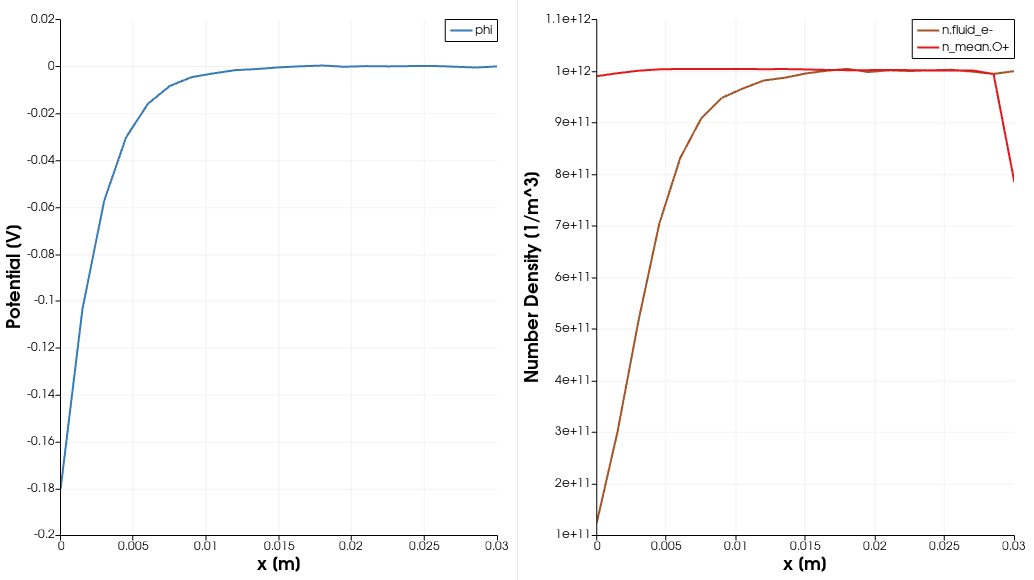
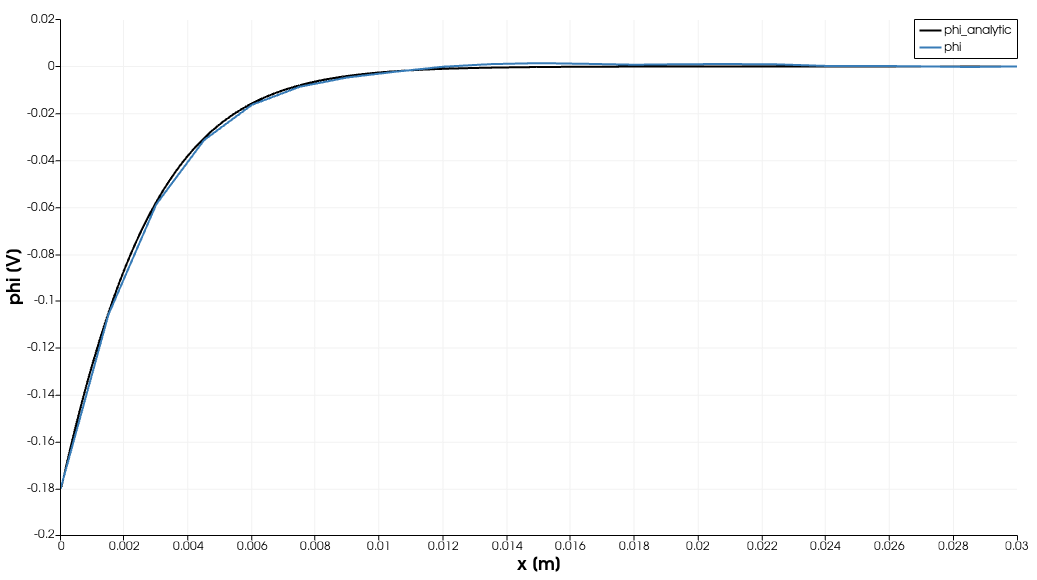
added analytic plasma sheath solution

diff --git a/test/sheath_br.cpp b/test/sheath_br.cpp
@@ -12,6 +12,52 @@ using namespace Eigen;
 using PBC = ParticleBCtype;
 using FBC = FieldBCtype;
 
+void save_analytical_solution()
+{
+	double Te    = 1000;		/* [K] */
+	double v_I   = 11492.19;	/* [m/s] */
+	double m_I   = 16*AMU;		/* [kg] */
+	double n_ei  = 1e12;		/* [1/m^3] */
+	double x_L   = -0.03;		/* [m] */
+	double phi_0 = -0.1811;		/* [V] */
+
+	int N = 1000;
+
+	double y0 = m_I*v_I*v_I/(2*K*Te);
+
+	double lambda_D = sqrt(EPS0*K*Te/(n_ei*QE*QE));
+	double xi_0 = 0.0;
+	double xi_L = x_L/lambda_D;
+	double d_xi = xi_L/(N - 1);
+
+	double chi_0 = -QE*phi_0/(K*Te);
+
+	string fname = "test/sheath_br/sheath_analytic.csv";
+	ofstream out(fname);
+	if (!out.is_open()) {
+		cerr << "Could not open '" << fname << "'" << endl;
+		exit(EXIT_FAILURE);
+	}
+
+	out << "x,phi_analytic\n";
+
+	/* Euler-Cauchy integration */
+	for (int i = 1; i < N; ++i) {
+		double xi  = xi_0  + d_xi;
+		double chi = chi_0 + d_xi*sqrt(4*y0*(sqrt(1 + chi_0/y0) - 1) + 2*(exp(-chi_0) - 1));
+
+		double x   = xi*lambda_D;
+		double phi = -chi*K*Te/QE;
+
+		out << -x << "," << phi << "\n";
+
+		xi_0 = xi;
+		chi_0 = chi;
+	}
+
+	out.close();
+}
+
 int main()
 {
 	Vector3d x_min = {0.00, -0.0015, -0.0015};
@@ -43,6 +89,8 @@ int main()
 
 	Solver solver(domain, 1000, 1e-4);
 	solver.set_reference_values(0, T*KToEv, n);
+
+	save_analytical_solution();
 
 	while (domain.advance_time()) {
 		solver.calc_potential_BR();
